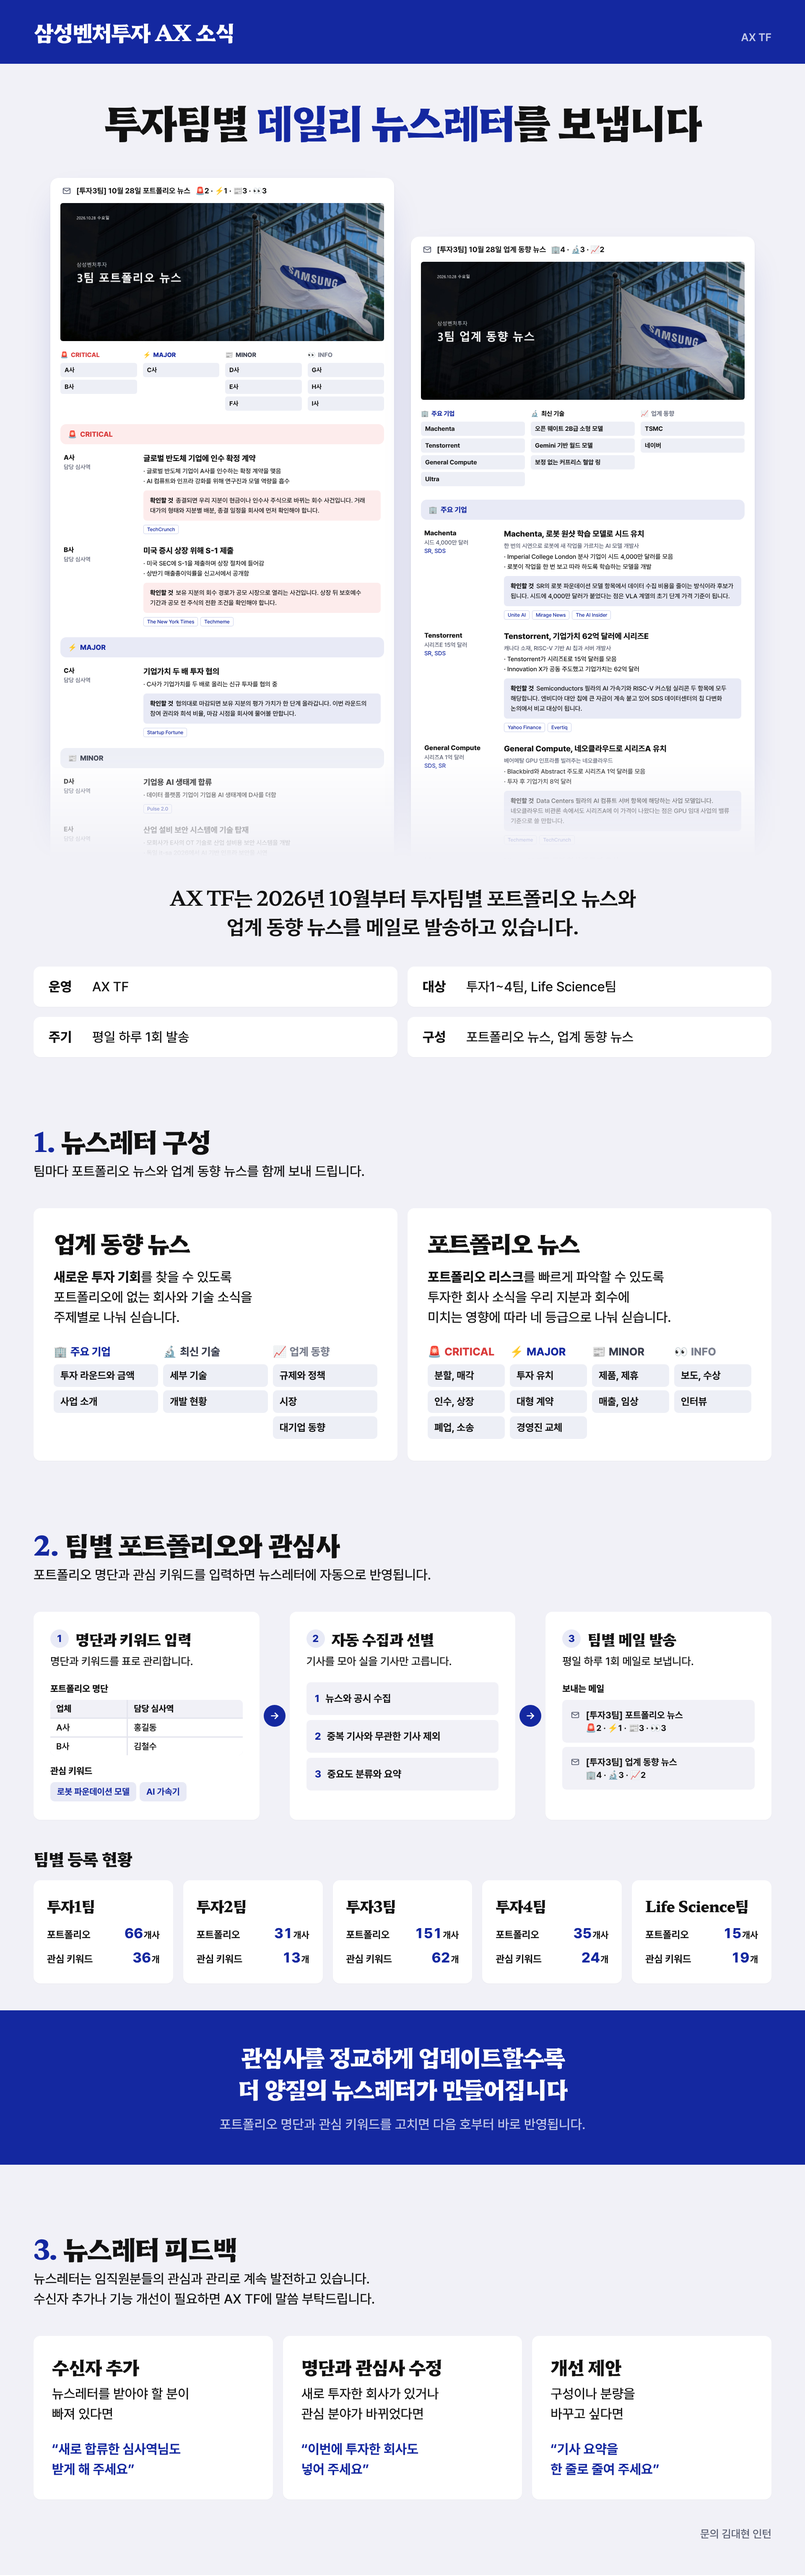
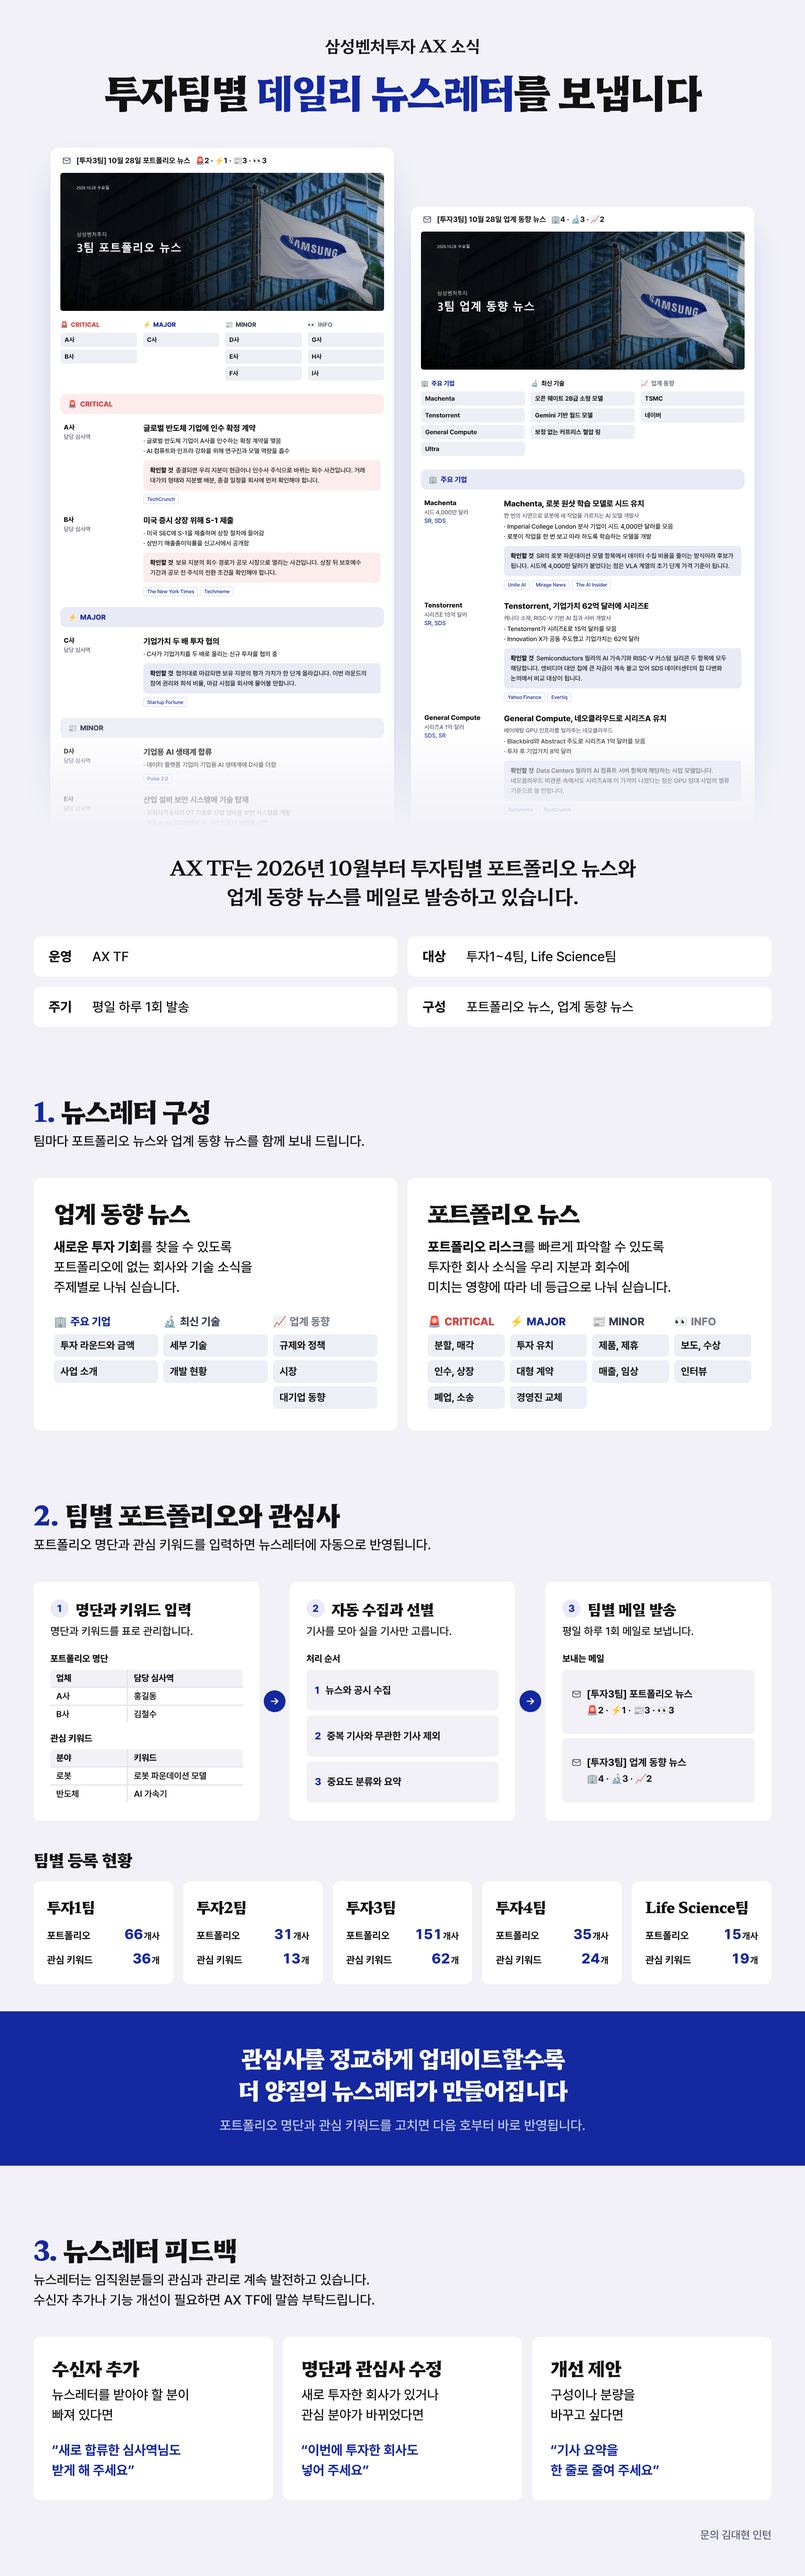
newsletter-notice: 제호 띠를 빼고 관심 키워드를 표로 되돌림
- 맨 위 파란 띠를 지우고 삼성벤처투자 AX 소식을 제목 위 한 줄로 둔다
- 1단계 관심 키워드를 다시 표로 둔다
- 2·3단계에 처리 순서, 보내는 메일 머리를 달고 칸 높이를 늘려 세 패널의 아래 끝을 맞춘다

Claude-Session: https://claude.ai/code/session_01YSjo2N4gvMJ1LtkTYgDKfT

diff --git a/ax-tf/newsletter-notice/notice.html b/ax-tf/newsletter-notice/notice.html
@@ -91,11 +91,6 @@ svg { display: block; }
 .c-minor { color: var(--minor); } .bg-minor { background: var(--minor-soft); }
 .c-info { color: var(--info); } .bg-info { background: var(--info-soft); }
 
-/* ---------- 소식지 제호: 포스터 맨 위를 채우는 띠 ---------- */
-.mast { background: var(--acc); color: var(--white); padding: 44px var(--pad); display: flex; justify-content: space-between; align-items: baseline; }
-.mast .mt { font-family: var(--display); font-size: 52px; line-height: 64px; font-weight: 800; letter-spacing: -.04em; }
-.mast .ms { font-size: var(--t-cap); line-height: var(--l-cap); font-weight: 600; color: #C4CAE9; }
-
 /* ---------- 1. 뉴스레터 구성 ---------- */
 /* 카드 안의 타일은 메일 차례와 같은 모양이다. 읽는 사람이 메일에서 본 것을 그대로 알아보게 한다 */
 .kinds { display: grid; grid-template-columns: 1fr 1fr; gap: var(--gap-sm); }
@@ -132,17 +127,17 @@ svg { display: block; }
 .fp .sheet + .sc { margin-top: 10px; }
 /* 작은 표: 칸 사이 틈으로 바탕색이 보여 칸이 나뉜다 */
 .sheet { display: grid; grid-template-columns: 1fr 1.5fr; gap: 3px; background: var(--paper-2); border-radius: 10px; overflow: hidden; }
-.sheet span { background: var(--white); padding: 6px 14px; font-size: 21px; line-height: 30px; font-weight: 600; white-space: nowrap; }
+.sheet span { background: var(--white); padding: 5px 14px; font-size: 21px; line-height: 30px; font-weight: 600; white-space: nowrap; }
 .sheet span.hd { background: var(--paper); font-weight: 800; }
-.kw { display: flex; flex-wrap: wrap; gap: 8px; }
-.kw span { background: var(--acc-soft); color: var(--acc); border-radius: 10px; padding: 8px 16px; font-size: 21px; line-height: 30px; font-weight: 700; white-space: nowrap; }
+.fp .fv.fill { flex: 1; }
+.fill .st2, .fill .mm { flex: 1; }
 .st2 { display: flex; flex-direction: column; gap: 12px; }
-.st2 span { display: flex; align-items: center; gap: 14px; background: var(--paper); border-radius: 10px; padding: 22px 20px; font-size: 24px; line-height: 34px; font-weight: 700; }
+.st2 span { flex: 1; display: flex; align-items: center; gap: 14px; background: var(--paper); border-radius: 10px; padding: 16px 20px; font-size: 24px; line-height: 34px; font-weight: 700; }
 .st2 span i { font-style: normal; color: var(--acc); font-weight: 800; }
 .mm { display: flex; flex-direction: column; gap: 10px; }
-.mm > span { display: grid; grid-template-columns: 24px 1fr; column-gap: 12px; background: var(--paper); border-radius: 10px; padding: 20px 20px; font-size: 22px; line-height: 32px; font-weight: 700; }
-.mm svg { width: 22px; height: 22px; color: var(--mute); margin-top: 5px; }
-.mm .ct { grid-column: 2; font-size: 20px; line-height: 30px; }
+.mm > span { flex: 1; display: grid; grid-template-columns: 24px 1fr; column-gap: 12px; align-content: center; background: var(--paper); border-radius: 10px; padding: 16px 22px; font-size: 24px; line-height: 36px; font-weight: 700; }
+.mm svg { width: 24px; height: 24px; color: var(--mute); margin-top: 6px; }
+.mm .ct { grid-column: 2; margin-top: 4px; font-size: 22px; line-height: 32px; }
 .h2 { font-family: var(--display); font-size: var(--t-h2); line-height: var(--l-h2); font-weight: 800; letter-spacing: -.03em; margin-bottom: -40px; }
 /* 관심사 안내는 섹션 여백을 넘어 포스터 폭 전체를 채우는 띠다 */
 .better { margin: 0 calc(-1 * var(--pad)); background: var(--acc); color: var(--white); padding: 72px var(--pad); text-align: center; display: flex; flex-direction: column; gap: var(--gap-sm); }
@@ -165,12 +160,11 @@ svg { display: block; }
 </svg>
 <div id="poster">
 
-  <!-- 소식지 제호 -->
-  <header class="mast"><div class="mt">삼성벤처투자 AX 소식</div><div class="ms">AX TF</div></header>
 
   <!-- 히어로 -->
   <section class="s hero">
     <div class="head">
+      <div class="org">삼성벤처투자 AX 소식</div>
       <div class="decl">투자팀별 <em>데일리 뉴스레터</em>를 보냅니다</div>
     </div>
     <div class="mails">
@@ -333,20 +327,20 @@ svg { display: block; }
           <div class="sc">포트폴리오 명단</div>
           <div class="sheet"><span class="hd">업체</span><span class="hd">담당 심사역</span><span>A사</span><span>홍길동</span><span>B사</span><span>김철수</span></div>
           <div class="sc">관심 키워드</div>
-          <div class="kw"><span>로봇 파운데이션 모델</span><span>AI 가속기</span></div>
+          <div class="sheet"><span class="hd">분야</span><span class="hd">키워드</span><span>로봇</span><span>로봇 파운데이션 모델</span><span>반도체</span><span>AI 가속기</span></div>
         </div>
       </div>
       <div class="arr"><span><svg><use href="#i-arrow"/></svg></span></div>
       <div class="fp">
         <div class="fh"><span class="no">2</span>자동 수집과 선별</div>
         <p>기사를 모아 실을 기사만 고릅니다.</p>
-        <div class="fv st2"><span><i>1</i>뉴스와 공시 수집</span><span><i>2</i>중복 기사와 무관한 기사 제외</span><span><i>3</i>중요도 분류와 요약</span></div>
+        <div class="fv fill"><div class="sc">처리 순서</div><div class="st2"><span><i>1</i>뉴스와 공시 수집</span><span><i>2</i>중복 기사와 무관한 기사 제외</span><span><i>3</i>중요도 분류와 요약</span></div></div>
       </div>
       <div class="arr"><span><svg><use href="#i-arrow"/></svg></span></div>
       <div class="fp">
         <div class="fh"><span class="no">3</span>팀별 메일 발송</div>
         <p>평일 하루 1회 메일로 보냅니다.</p>
-        <div class="fv">
+        <div class="fv fill">
           <div class="sc">보내는 메일</div>
           <div class="mm">
             <span><svg><use href="#i-mail"/></svg>[투자3팀] 포트폴리오 뉴스<span class="ct"><span class="em">🚨</span>2 · <span class="em">⚡</span>1 · <span class="em">📰</span>3 · <span class="em">👀</span>3</span></span>
